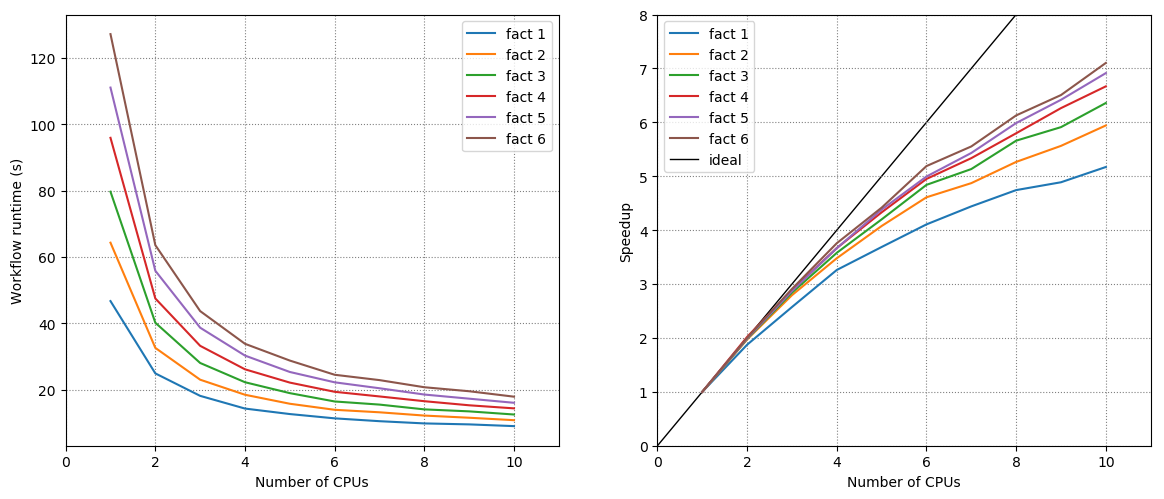
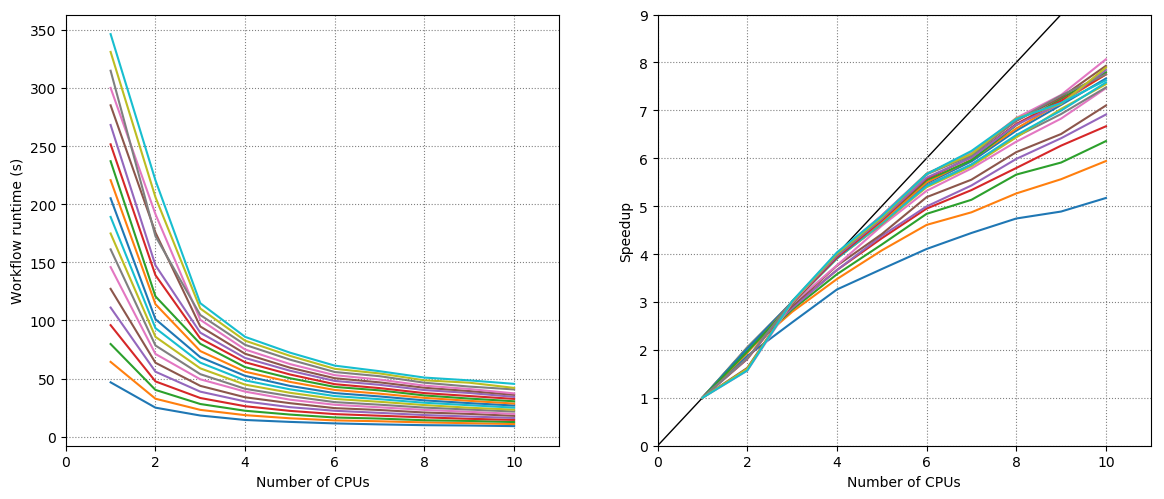
new file to extract also number of events from log

diff --git a/benchmarks/extract_SNSPowderReduction_data.py b/benchmarks/extract_SNSPowderReduction_data.py
@@ -1,0 +1,65 @@
+# Name of log file
+infile = "bench_log.txt";
+outfile = "SNSPowderReduction_bench.txt"
+
+fin = open(infile, 'r')
+fout = open(outfile, 'w')
+
+# Define data columns
+header = ["Run no.","NCPU","factor","Runtime","Nevents1","Nevents2","Nbins"]
+ncols = len(header)
+
+# Write file header
+fout.write("# "+(" ".join(header))+"\n")
+
+# Create data array
+data = []
+nevents = [0,0]
+
+factor = 0
+run_count = 0
+proton_count = 0
+get_Nevents = False
+
+# Go through log file content
+for line in fin:
+
+    # If 'Running' is found, it means start of a new block for given grow factor    
+    if line.count("Running") > 0:
+        factor = float(line.split(' ')[-1].rstrip())
+        get_Nevents = True # Only get events when NCPU=1
+
+    # If 'proton' is found, then we find number of events in the line
+    if (line.count("proton") > 0) and get_Nevents:
+        theLine = line.split(" ")
+        iloc = theLine.index("events")
+        nevents[proton_count] = float(theLine[iloc-1])
+
+        # Deal with number of events for '77777' and '88888' files
+        proton_count += 1
+        if proton_count > 1:
+            proton_count = 0
+            get_Nevents = False
+
+    # If 'NCPU' is found, then we have number of cpus and runtime
+    if line.count("NCPU") > 0:
+        data.append([0]*ncols)
+        data[run_count][0] = run_count+1
+        data[run_count][2] = factor
+        
+        data[run_count][1] = float(line.split(' ')[-3])
+        data[run_count][3] = float(line.split(' ')[-1].rstrip())/1000.0
+        
+        data[run_count][4] = nevents[0]
+        data[run_count][5] = nevents[1]
+        run_count += 1
+        
+# Write data to file
+for i in range(run_count):
+    for j in range(ncols):
+        fout.write("%.3f  " % data[i][j])
+    fout.write("\n")
+
+# Close files
+fin.close()
+fout.close()

diff --git a/benchmarks/plot_SNSPowderReduction_bench.py b/benchmarks/plot_SNSPowderReduction_bench.py
@@ -67,14 +67,14 @@ ax2.plot([0,11],[0,11],color='k',zorder=-5,lw=1,label="ideal")
 ax1.set_xlim([0,11])
 ax1.set_xlabel("Number of CPUs")
 ax1.set_ylabel("Workflow runtime (s)")
-ax1.legend()
+#ax1.legend()
 
 
 ax2.set_xlim([0,11])
-ax2.set_ylim([0,8])
+ax2.set_ylim([0,9])
 ax2.set_xlabel("Number of CPUs")
 ax2.set_ylabel("Speedup")
-ax2.legend()
+#ax2.legend()
 
 ax1.grid(True,color='gray',linestyle='dotted')
 ax2.grid(True,color='gray',linestyle='dotted')
